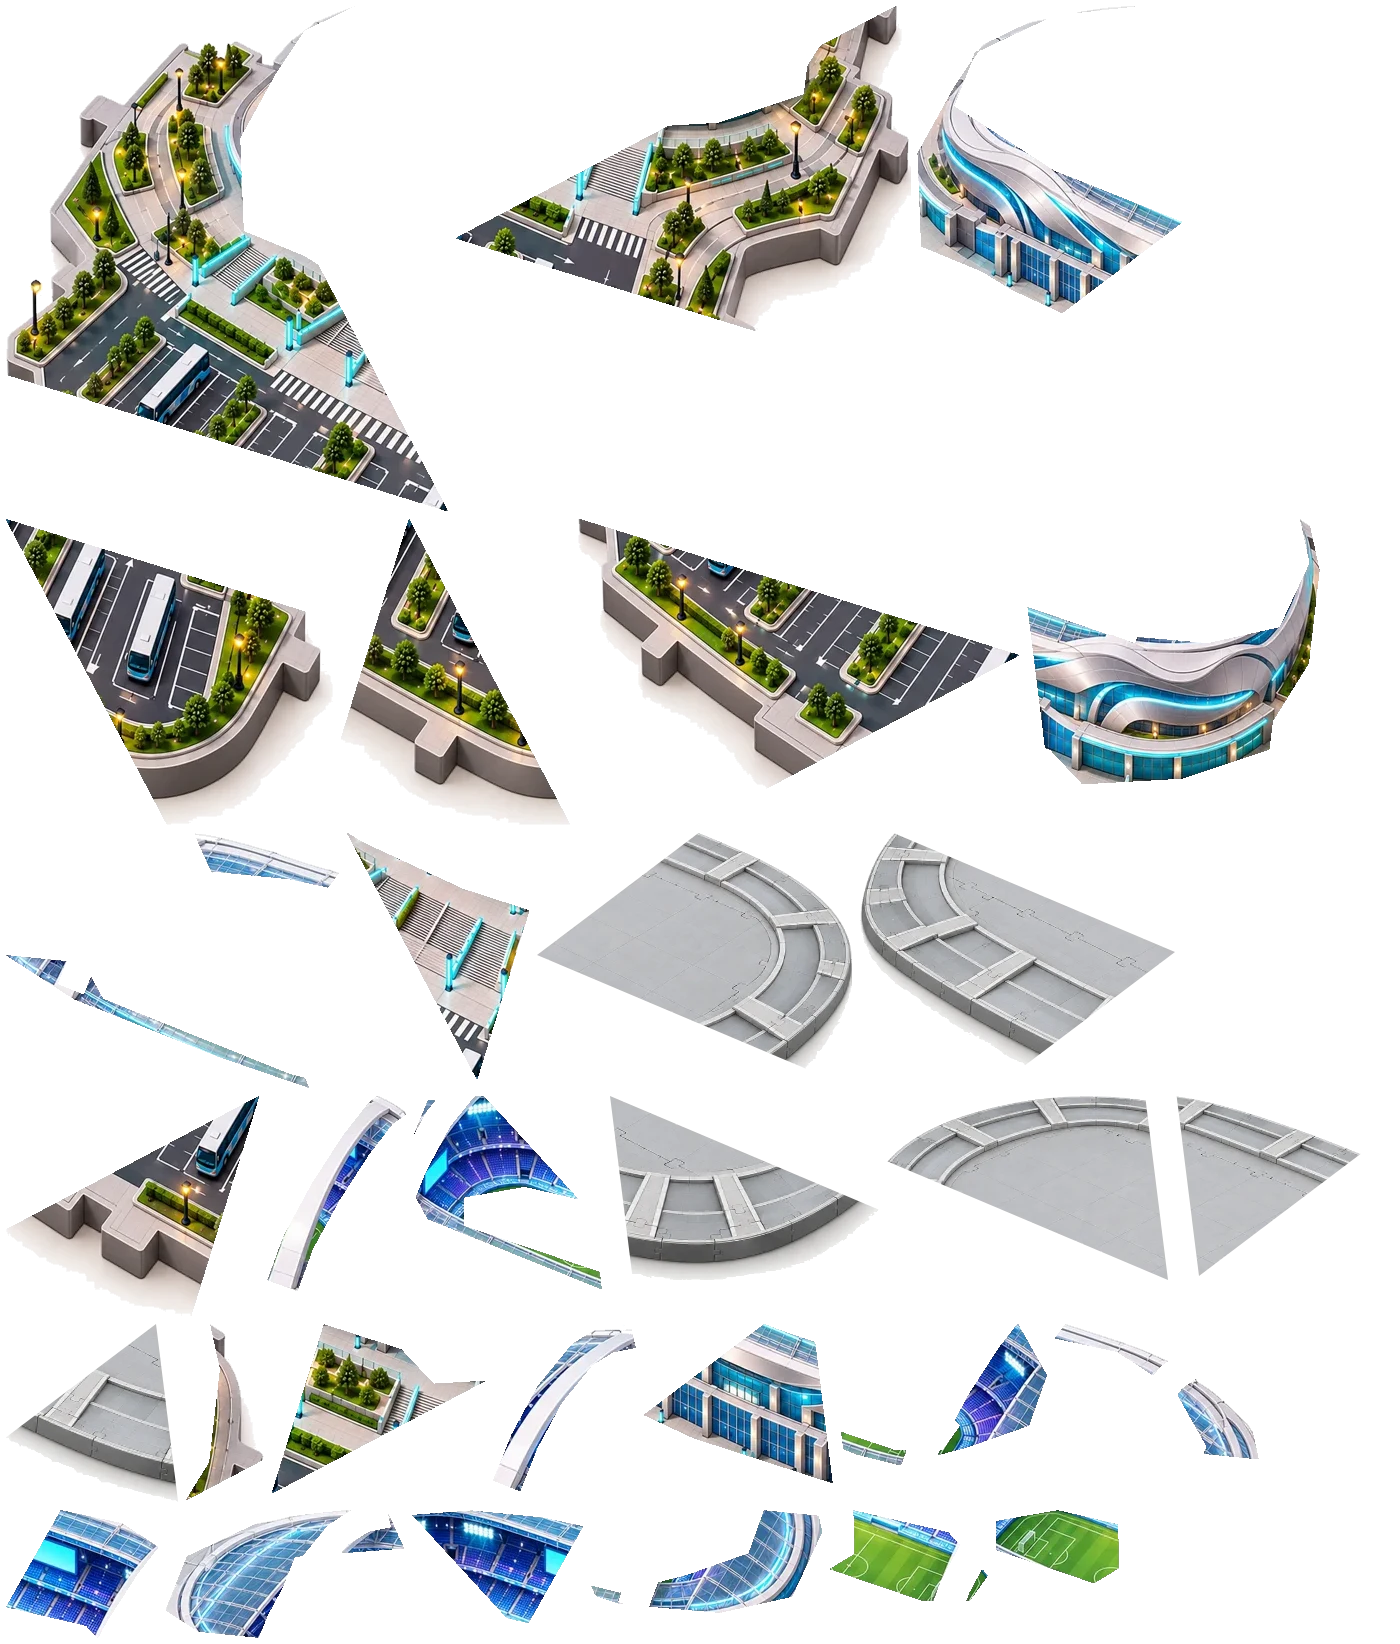
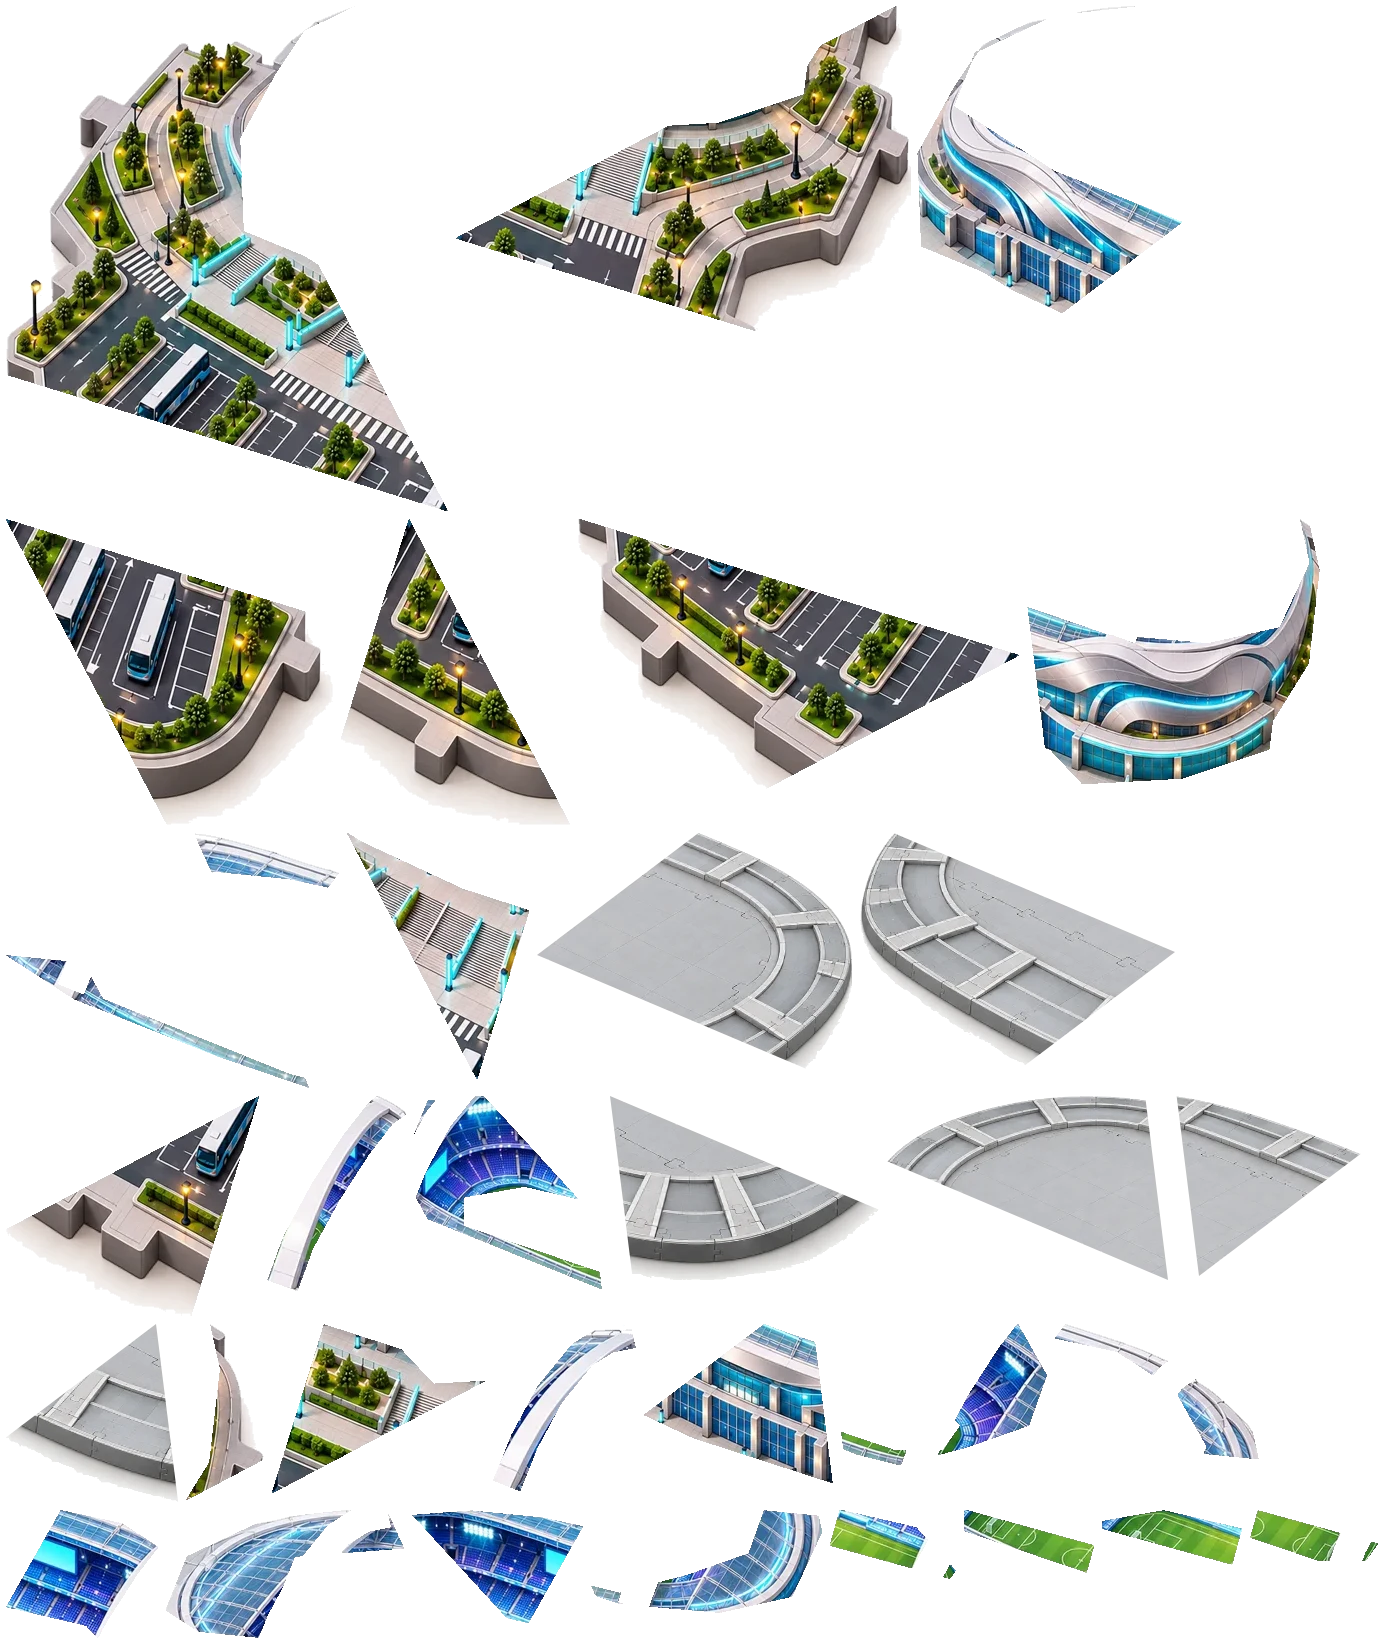
Puzzle 3D: césped del Futurista en 4 piezas y piezas más grandes en la bandeja (#966)
Claude-Session: https://claude.ai/code/session_016Hpyg3vebFKwHSnTQ2rALx

Changed region(s): [[0.5836, 0.8996, 0.9521, 0.9927]]

diff --git a/puzzle.html b/puzzle.html
@@ -863,7 +863,7 @@ async function armarElegidoSolo(){
      alto, x/y en el atlas): recortarlas en el celular (fondo blanco fuera,
      partir pedazos sueltos) se quedaba sin memoria y no cargaba. Para
      regenerarlas: assets/puzzle/3d/generar-piezas.html. Progreso en
-     gya_puzzle3d_futurista3.
+     gya_puzzle3d_futurista4.
    Al terminar: gya_puzzle.hechos += "p3d:<id>". Solo, no cooperativo. */
 const P3D=(()=>{
   const IW=900,IH=900,K=900/1254,sc=p=>p.map(([x,y])=>[x*K,y*K]),TODO=[[0,0],[IW,0],[IW,IH],[0,IH]];
@@ -883,9 +883,9 @@ const P3D=(()=>{
         for(let i=0;i<10;i++){const a0=i/10*Math.PI*2+.15,a1=(i+1)/10*Math.PI*2+.15;ps.push({capa:3,clip:[[cuna(C,a0,a1)],[TODO,PISTA,TORRE,LUZ1,LUZ2]]})}
         ps.push({capa:4,clip:[[TORRE],[[[0,0],[IW,0],[IW,250*K],[0,250*K]]]]});ps.push({capa:4,clip:[[TORRE],[[[0,250*K],[IW,250*K],[IW,IH],[0,IH]]]]});
         ps.push({capa:5,clip:[[LUZ1]]});ps.push({capa:5,clip:[[LUZ2]]});return ps}},
-    futurista:{n:'Estadio Futurista',img:'assets/puzzle/3d/futurista.webp',mini:'assets/puzzle/3d/mini/futurista.webp',clave:'gya_puzzle3d_futurista3',atlas:'assets/puzzle/3d/futurista-piezas.webp',
+    futurista:{n:'Estadio Futurista',img:'assets/puzzle/3d/futurista.webp',mini:'assets/puzzle/3d/mini/futurista.webp',clave:'gya_puzzle3d_futurista4',atlas:'assets/puzzle/3d/futurista-piezas.webp',
       capas:['La cancha','Las tribunas','La fachada','El techo de vidrio','Los arcos','Lo de afuera: la explanada y el estacionamiento'],
-      piezas:[[0,535,292,273,188,608,1094],[0,385,292,176,182,4,1322],[0,220,173,319,236,858,831],[0,254,108,285,188,885,1094],[0,512,112,189,184,1174,1094],[0,535,170,319,240,535,831],[1,435,184,127,77,994,1508],[1,533,198,162,95,828,1508],[2,455,89,175,117,410,1508],[2,571,105,156,132,4,1508],[2,386,94,192,197,412,1094],[2,571,162,210,145,839,1322],[3,234,52,269,311,915,4],[3,379,268,193,163,642,1322],[3,549,198,297,269,1025,517],[4,271,52,242,132,164,1508],[4,303,51,337,259,4,831],[4,625,91,208,139,1053,1322],[4,601,220,235,107,589,1508],[5,354,46,147,171,491,1322],[5,627,128,143,199,265,1094],[6,807,204,82,180,184,1322],[6,1,67,446,509,4,4],[6,313,326,186,250,345,831],[6,443,403,217,173,270,1322],[6,443,340,457,329,454,4],[6,2,436,445,274,576,517],[6,190,572,257,224,4,1094],[6,443,572,331,310,4,517],[6,375,572,233,310,339,517]]}};
+      piezas:[[0,535,292,273,188,608,1094],[0,385,292,176,182,4,1322],[0,220,173,319,236,858,831],[0,254,108,285,188,885,1094],[0,512,112,189,184,1174,1094],[0,535,170,319,240,535,831],[1,435,184,144,59,1100,1508],[1,565,203,130,73,828,1508],[1,435,203,134,67,962,1508],[1,557,238,132,55,1248,1508],[2,455,89,175,117,410,1508],[2,571,105,156,132,4,1508],[2,386,94,192,197,412,1094],[2,571,162,210,145,839,1322],[3,234,52,269,311,915,4],[3,379,268,193,163,642,1322],[3,549,198,297,269,1025,517],[4,271,52,242,132,164,1508],[4,303,51,337,259,4,831],[4,625,91,208,139,1053,1322],[4,601,220,235,107,589,1508],[5,354,46,147,171,491,1322],[5,627,128,143,199,265,1094],[6,807,204,82,180,184,1322],[6,1,67,446,509,4,4],[6,313,326,186,250,345,831],[6,443,403,217,173,270,1322],[6,443,340,457,329,454,4],[6,2,436,445,274,576,517],[6,190,572,257,224,4,1094],[6,443,572,331,310,4,517],[6,375,572,233,310,339,517]]}};
   let est=null,D=null,IMG=null,piezas=[],capa=1,NC=1,drag=null,listo=false,brillo=[],raf=0,dpr=1,VW=0,VH=0,TOP=0,esc=1,trayY=0,abierto=false;
   let zm=1,panX=0,panY=0,OX=0,OY=0,B={x:0,y:0,w:0,h:0},T={x:0,y:0,w:0,h:0},apaisado=false,arrastre=null,pinza=null;const toques=new Map(),IMGS={};
   const E=()=>esc*zm;
@@ -918,7 +918,7 @@ const P3D=(()=>{
   function zoomEn(f,sx,sy){const e0=E(),wx=(sx-OX)/e0,wy=(sy-OY)/e0;zm*=f;limitar();const e1=E();panX+=sx-(OX+wx*e1);panY+=sy-(OY+wy*e1);limitar();acomodar(false)}
   function acomodar(nuevas){const ps=piezas.filter(p=>p.capa===capa&&!p.ok);const n=ps.length;if(!n)return;
     const cols=apaisado?Math.min(n,2):Math.min(n,n>6?4:3),filas=Math.ceil(n/cols),cw=T.w/cols,ch=(T.h-26)/filas;
-    ps.forEach((p,i)=>{const c=i%cols,f=Math.floor(i/cols),L=Math.max(p.w,p.h)*E(),k=Math.min(1,(cw-12)/L,(ch-10)/L);p.k=Math.max(.15,k);
+    ps.forEach((p,i)=>{const c=i%cols,f=Math.floor(i/cols),L=Math.max(p.w,p.h)*E(),k=Math.min(1.8,(cw-12)/L,(ch-10)/L);p.k=Math.max(.15,k);
       p.x=T.x+c*cw+cw/2-p.w*E()*p.k/2;p.y=T.y+f*ch+ch/2-p.h*E()*p.k/2;if(nuevas||p.giro==null){p.giro=1+Math.floor(Math.random()*3);p.ang=p.giro*Math.PI/2}})}
   const destino=p=>({x:OX+p.bx*E(),y:OY+p.by*E()});
   let AC=null;function son(f,d,v){if(!sonidoOk())return;try{AC=AC||new(window.AudioContext||window.webkitAudioContext)();const o=AC.createOscillator(),g=AC.createGain(),t=AC.currentTime;o.type='triangle';o.frequency.setValueAtTime(f,t);o.frequency.exponentialRampToValueAtTime(f*.5,t+d);g.gain.setValueAtTime(v,t);g.gain.exponentialRampToValueAtTime(.001,t+d);o.connect(g).connect(AC.destination);o.start(t);o.stop(t+d)}catch(_){}}

diff --git a/sw.js b/sw.js
@@ -1,5 +1,5 @@
-const CACHE_NAME = "gya-cache-v307";
-const APP_SHELL = ["./", "./index.html", "./manifest.json", "./i18n.js?v=1", "./lib/mqtt.min.js?v=5.10.1", "./lib/supabase.min.js?v=2.45.4", "./icono-192.png", "./icono-512.png", "./assets/logo.webp", "./ui-icons.js?v=1", "./assets/ui/coin.svg", "./assets/ui/shield.svg", "./extensiones.css?v=83", "./extensiones.js?v=42", "./duelo-extensiones.js?v=16", "./sopa-fugaz-datos.js?v=3", "./sopa-fugaz.js?v=7", "./logo-sopa-fugaz.svg", "./rueda-de-letras-datos.js?v=4", "./rueda-de-letras-diccionario.js?v=1", "./rueda-de-letras.js?v=14", "./logo-rueda-de-letras.svg", "./palabra-secreta-datos.js?v=2", "./palabra-secreta.js?v=15", "./logo-palabra-secreta.svg", "./frases-en-giro-datos.js?v=1", "./frases-en-giro.js?v=8", "./logo-frases-en-giro.svg", "./memoria-en-giro.js?v=7", "./logo-memoria-en-giro.svg", "./rosco-rioplatense-datos.js?v=3", "./rosco-rioplatense.js?v=11", "./logo-rosco-rioplatense.svg", "./silabario-rioplatense-datos.js?v=3", "./silabario-rioplatense.js?v=14", "./logo-silabario-rioplatense.svg", "./cien-rioplatenses-datos.js?v=1", "./cien-rioplatenses.js?v=7", "./logo-cien-rioplatenses.svg", "./ahorcado-rioplatense-datos.js?v=1", "./ahorcado-rioplatense.js?v=11", "./logo-ahorcado-rioplatense.svg", "./contra-reloj-rioplatense-datos.js?v=2", "./contra-reloj-rioplatense-voz.js?v=3", "./contra-reloj-rioplatense-online.js?v=12", "./contra-reloj-rioplatense.js?v=12", "./logo-contra-reloj-rioplatense.svg", "./assets/extensiones/contra-reloj/dado-0.png", "./assets/extensiones/contra-reloj/dado-1.png", "./assets/extensiones/contra-reloj/dado-2.png", "./moon-tap.js?v=5", "./puzzle.js?v=33", "./puzzle.html?v=33", "./logo-puzzle.svg", "./pantalla-fija.js?v=5", "./que-numero-soy.js?v=6", "./logo-que-numero-soy.svg", "./quien-soy-datos.js?v=1", "./quien-soy.js?v=8", "./logo-quien-soy.svg", "./bomba.js?v=12", "./logo-bomba.svg", "./impostor-datos.js?v=1", "./impostor.js?v=5", "./logo-impostor.svg", "./mimica-datos.js?v=2", "./mimica.js?v=5", "./canta-la-cancion-datos.js?v=1", "./canta-la-cancion.js?v=11", "./tutti-frutti-datos.js?v=34", "./tutti-frutti.js?v=63", "./logo-mimica.svg", "./logo-canta-la-cancion.svg", "./logo-tutti-frutti.svg", "./logo-moon-tap.webp", "./assets/audio/error-extensiones.mp3", "./assets/extensiones/moon-tap/fondo.webp", "./mahjong-rioplatense.html", "./logo-mahjong.png"];
+const CACHE_NAME = "gya-cache-v308";
+const APP_SHELL = ["./", "./index.html", "./manifest.json", "./i18n.js?v=1", "./lib/mqtt.min.js?v=5.10.1", "./lib/supabase.min.js?v=2.45.4", "./icono-192.png", "./icono-512.png", "./assets/logo.webp", "./ui-icons.js?v=1", "./assets/ui/coin.svg", "./assets/ui/shield.svg", "./extensiones.css?v=83", "./extensiones.js?v=42", "./duelo-extensiones.js?v=16", "./sopa-fugaz-datos.js?v=3", "./sopa-fugaz.js?v=7", "./logo-sopa-fugaz.svg", "./rueda-de-letras-datos.js?v=4", "./rueda-de-letras-diccionario.js?v=1", "./rueda-de-letras.js?v=14", "./logo-rueda-de-letras.svg", "./palabra-secreta-datos.js?v=2", "./palabra-secreta.js?v=15", "./logo-palabra-secreta.svg", "./frases-en-giro-datos.js?v=1", "./frases-en-giro.js?v=8", "./logo-frases-en-giro.svg", "./memoria-en-giro.js?v=7", "./logo-memoria-en-giro.svg", "./rosco-rioplatense-datos.js?v=3", "./rosco-rioplatense.js?v=11", "./logo-rosco-rioplatense.svg", "./silabario-rioplatense-datos.js?v=3", "./silabario-rioplatense.js?v=14", "./logo-silabario-rioplatense.svg", "./cien-rioplatenses-datos.js?v=1", "./cien-rioplatenses.js?v=7", "./logo-cien-rioplatenses.svg", "./ahorcado-rioplatense-datos.js?v=1", "./ahorcado-rioplatense.js?v=11", "./logo-ahorcado-rioplatense.svg", "./contra-reloj-rioplatense-datos.js?v=2", "./contra-reloj-rioplatense-voz.js?v=3", "./contra-reloj-rioplatense-online.js?v=12", "./contra-reloj-rioplatense.js?v=12", "./logo-contra-reloj-rioplatense.svg", "./assets/extensiones/contra-reloj/dado-0.png", "./assets/extensiones/contra-reloj/dado-1.png", "./assets/extensiones/contra-reloj/dado-2.png", "./moon-tap.js?v=5", "./puzzle.js?v=34", "./puzzle.html?v=34", "./logo-puzzle.svg", "./pantalla-fija.js?v=5", "./que-numero-soy.js?v=6", "./logo-que-numero-soy.svg", "./quien-soy-datos.js?v=1", "./quien-soy.js?v=8", "./logo-quien-soy.svg", "./bomba.js?v=12", "./logo-bomba.svg", "./impostor-datos.js?v=1", "./impostor.js?v=5", "./logo-impostor.svg", "./mimica-datos.js?v=2", "./mimica.js?v=5", "./canta-la-cancion-datos.js?v=1", "./canta-la-cancion.js?v=11", "./tutti-frutti-datos.js?v=34", "./tutti-frutti.js?v=63", "./logo-mimica.svg", "./logo-canta-la-cancion.svg", "./logo-tutti-frutti.svg", "./logo-moon-tap.webp", "./assets/audio/error-extensiones.mp3", "./assets/extensiones/moon-tap/fondo.webp", "./mahjong-rioplatense.html", "./logo-mahjong.png"];
 
 self.addEventListener("install", (e) => {
   e.waitUntil(

diff --git a/assets/puzzle/3d/generar-piezas.html b/assets/puzzle/3d/generar-piezas.html
@@ -34,7 +34,7 @@ function recorte(g,p){g.save();for(const grupo of p.clip){g.beginPath();for(cons
       const dueno=comps.map((c,i)=>{if(grandes.includes(i))return i;let mej=grandes[0],md=1e18;for(const j of grandes){const dd=(comps[j].cx-c.cx)**2+(comps[j].cy-c.cy)**2;if(dd<md){md=dd;mej=j}}return mej});
       for(const j of grandes){const sel=new Uint8Array(IW*IH);let n=0,sx=0,sy=0;for(let s=0;s<IW*IH;s++)if(lab[s]>=0&&dueno[lab[s]]===j){sel[s]=1;n++;sx+=s%IW;sy+=(s/IW)|0}
         nuevas.push({capa:p.capa,sel,n,cx:sx/n,cy:sy/n})}}
-    let cambio=true;while(cambio){cambio=false;nuevas.sort((a,b)=>a.n-b.n);const p=nuevas.find(q=>q.capa!==noJuntar&&q.n<CHICA&&nuevas.some(o=>o!==q&&o.capa===q.capa));
+    let cambio=true;while(cambio){cambio=false;nuevas.sort((a,b)=>a.n-b.n);const p=nuevas.find(q=>!noJuntar.includes(q.capa)&&q.n<CHICA&&nuevas.some(o=>o!==q&&o.capa===q.capa));
       if(p){let mej=null,md=1e18;for(const o of nuevas)if(o!==p&&o.capa===p.capa){const dd=(o.cx-p.cx)**2+(o.cy-p.cy)**2;if(dd<md){md=dd;mej=o}}
         for(let s=0;s<IW*IH;s++)if(p.sel[s])mej.sel[s]=1;mej.cx=(mej.cx*mej.n+p.cx*p.n)/(mej.n+p.n);mej.cy=(mej.cy*mej.n+p.cy*p.n)/(mej.n+p.n);mej.n+=p.n;nuevas.splice(nuevas.indexOf(p),1);cambio=true}}
     nuevas.sort((a,b)=>a.capa-b.capa||a.cy-b.cy||a.cx-b.cx);
@@ -48,7 +48,7 @@ function definirFut(){const STADIUM=sc([[330,280],[380,190],[420,130],[520,82],[
         const ARCO2=sc(banda([[898,445],[920,385],[958,315],[1000,250],[1035,205],[1062,185]],44));
         const EX=[ARCO1,ARCO2],ps=[],an=(i,n,d)=>[i/n*Math.PI*2+d,(i+1)/n*Math.PI*2+d];
         for(let i=0;i<8;i++){const[a0,a1]=an(i,8,.3);ps.push({capa:6,clip:[[cuna([620*K,800*K],a0,a1)],[TODO,STADIUM]]})}
-        for(let i=0;i<3;i++){const[a0,a1]=an(i,3,.5);ps.push({capa:1,clip:[[cuna([780*K,340*K],a0,a1)],[FIELD],[TODO,...EX]]})}
+        for(let i=0;i<4;i++){const[a0,a1]=an(i,4,.27);ps.push({capa:1,clip:[[cuna([790*K,335*K],a0,a1)],[FIELD],[TODO,...EX]]})}
         for(let i=0;i<5;i++){const[a0,a1]=an(i,5,.2);ps.push({capa:2,clip:[[cuna([790*K,300*K],a0,a1)],[BOWL,FIELD],[TODO,...EX]]})}
         for(let i=0;i<6;i++){const[a0,a1]=an(i,6,.4);ps.push({capa:3,clip:[[cuna([760*K,330*K],a0,a1)],[STADIUM,ROOF],[TODO,...EX]]})}
         for(let i=0;i<6;i++){const[a0,a1]=an(i,6,.1);ps.push({capa:4,clip:[[cuna([780*K,280*K],a0,a1)],[ROOF,BOWL],[TODO,...EX]]})}
@@ -62,7 +62,7 @@ window.gen=async(R,NB)=>{const im=await ld('futurista.webp'),bi=await ld('futuri
   /* base gris: imagen de Gonzalo (fondo blanco fuera) puesta bajo el estadio y recortada a la silueta de la maqueta */
   const bc=document.createElement('canvas');bc.width=bi.width;bc.height=bi.height;const bg=bc.getContext('2d');bg.drawImage(bi,0,0);
   const BI=(()=>{const t=lienzo(),tg=t.getContext('2d');tg.drawImage(sinFondoGen(bc),9,152,882,675,R[0],R[1],R[2]-R[0],R[3]-R[1]);tg.globalCompositeOperation='destination-in';tg.drawImage(IMG,0,0);return t})();
-  let ps=partirIslas(definirFut(),5).map(p=>({...p,capa:p.capa+1}));
+  let ps=partirIslas(definirFut(),[1,5]).map(p=>({...p,capa:p.capa+1}));
   const C=[(R[0]+R[2])/2,(R[1]+R[3])/2],bs=[];for(let i=0;i<NB;i++){const a0=i/NB*Math.PI*2+.4,a1=(i+1)/NB*Math.PI*2+.4;bs.push({capa:1,src:BI,clip:[[cuna(C,a0,a1)]]})}
   const todas=[...bs,...ps].map(cortar).filter(Boolean);
   /* atlas: estantes */

diff --git a/puzzle.js b/puzzle.js
@@ -6,7 +6,7 @@ const Puzzle=(()=>{
   let marco=null;
   function abrir(contenedor){
     salir();
-    marco=document.createElement("iframe");marco.src="puzzle.html?v=33";marco.title="Puzzle";
+    marco=document.createElement("iframe");marco.src="puzzle.html?v=34";marco.title="Puzzle";
     marco.style.cssText="position:fixed;left:0;right:0;bottom:0;top:env(safe-area-inset-top,0px);width:100%;height:calc(100% - env(safe-area-inset-top,0px));border:0;z-index:60;background:#160B24";
     contenedor.appendChild(marco);
   }

diff --git a/index.html b/index.html
@@ -11303,7 +11303,7 @@ document.addEventListener("keydown",e=>{
 <script src="contra-reloj-rioplatense-online.js?v=12"></script>
 <script src="contra-reloj-rioplatense.js?v=12"></script>
 <script src="moon-tap.js?v=5"></script>
-<script src="puzzle.js?v=33"></script>
+<script src="puzzle.js?v=34"></script>
 <script src="pantalla-fija.js?v=5"></script>
 <script src="que-numero-soy.js?v=6"></script>
 <script src="quien-soy-datos.js?v=1"></script>

diff --git a/CEREBRO_DEL_PROYECTO.md b/CEREBRO_DEL_PROYECTO.md
@@ -924,3 +924,7 @@ Fecha: 16/10/2026 — Estadio Futurista: ARREGLO "no carga, solo se ve la pantal
 ```text
 Fecha: 16/10/2026 — Estadio Futurista: la BASE GRIS ya viene ARMADA (Gonzalo: "la base gris ya venía armada"). Sus 6 piezas son capa 0, puestas desde el principio; el juego arranca por la cancha. Quedan 24 piezas para armar en 6 capas: cancha (2), tribunas (4), fachada (3), techo de vidrio (4), arcos (2), explanada y estacionamiento (9). Progreso en gya_puzzle3d_futurista3. puzzle.html v33, puzzle.js v33, sw v307.
 ```
+
+```text
+Fecha: 16/10/2026 — Puzzle 3D: el césped del Estadio Futurista vuelve a ser de 4 PIEZAS (Gonzalo: "eran 4 de césped y me pusiste dos"; la cancha está cortada en 4 por sus ejes y esa capa no se junta aunque las piezas sean chicas, igual que los arcos). Y las piezas de la bandeja se ven MÁS GRANDES en el celular (hasta 1,8× el tamaño del hueco; al agarrarlas toman el tamaño real del hueco). Vale para los dos estadios. Futurista: 26 piezas para armar en 6 capas: cancha (4), tribunas (4), fachada (3), techo de vidrio (4), arcos (2), explanada (9). Progreso en gya_puzzle3d_futurista4. puzzle.html v34, puzzle.js v34, sw v308.
+```
